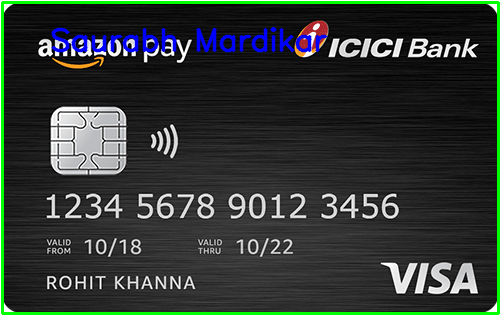
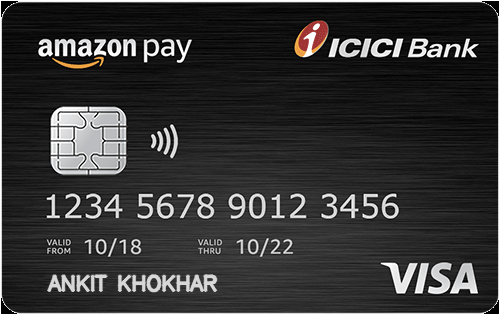
Printing name on blank card

diff --git a/text detection/text_detector_v3.py b/text detection/text_detector_v3.py
@@ -68,12 +68,14 @@ ap.add_argument("-w", "--width", type=int, default=320,
                 help="nearest multiple of 32 for resized width")
 ap.add_argument("-e", "--height", type=int, default=320,
                 help="nearest multiple of 32 for resized height")
-ap.add_argument("-p", "--padding", type=float, default=0.05,
+ap.add_argument("-p", "--padding", type=float, default=0.01,
                 help="amount of padding to add to each border of ROI")
 args = vars(ap.parse_args())
 
 # load the input image and grab the image dimensions
 image = cv2.imread(args["image"])
+
+blank_image = cv2.imread("../cbccwithoutname.png")
 orig = image.copy()
 (origH, origW) = image.shape[:2]
 # set the new width and height and then determine the ratio in change
@@ -153,10 +155,28 @@ for ((startX, startY, endX, endY), text) in results:
     # the text region of the input image
     text = "".join([c if ord(c) < 128 else "" for c in text]).strip()
     output = orig.copy()
-    cv2.rectangle(output, (startX, startY), (endX, endY),
-                  (0, 0, 255), 2)
-    cv2.putText(output, text, (startX, startY - 20),
-                cv2.FONT_HERSHEY_SIMPLEX, 1.2, (0, 0, 255), 3)
+    """
+    output[0,startX:endX,startY:endY] = (255,255,255)
+    output[1,startX:endX,startY:endY] = (255,255,255)
+    output[2,startX:endX,startY:endY] = (255,255,255)"""
+    print("Done")
+
+    if text.lower() == "ROHIT".lower():
+        blank_copy = blank_image.copy()
+        modified_image = cv2.putText(blank_copy, "ANKIT KHOKHAR", (startX+8, endY),
+                    cv2.FONT_HERSHEY_SIMPLEX , 0.68, (215, 215, 215), 2, lineType=cv2.LINE_AA , bottomLeftOrigin=None)
+
+        """from PIL import Image, ImageDraw, ImageFont
+
+        img = Image.open('images/logo.jpg')
+        d1 = ImageDraw.Draw(img)
+        d1.text((startX+8, endY), "Sample text", font=myFont, fill =(215, 215, 215))
+        img.show()
+        img.save("images/image_text.jpg")"""
+    #output[startX:endX, startY:endY] = [255,255,255]
+    
     # show the output image
-    cv2.imshow("Text Detection", output)
-    cv2.waitKey(0)
+    # cv2.imshow("Text Detection", output)
+    # cv2.waitKey(0)
+
+cv2.imwrite("../cbcc_card_modified.png", modified_image)

diff --git a/text detection/binary_read_write1.py b/text detection/binary_read_write1.py
@@ -1,0 +1,11 @@
+f = open('my_file', 'w+b')
+byte_arr = [123, 124]
+binary_format = bytearray(byte_arr)
+f.write(binary_format)
+f.close()
+
+with open("my_file", "rb") as f:
+    byte = f.read(1)
+    while byte != b"":
+        # Do stuff with byte.
+        byte = f.read(1)
